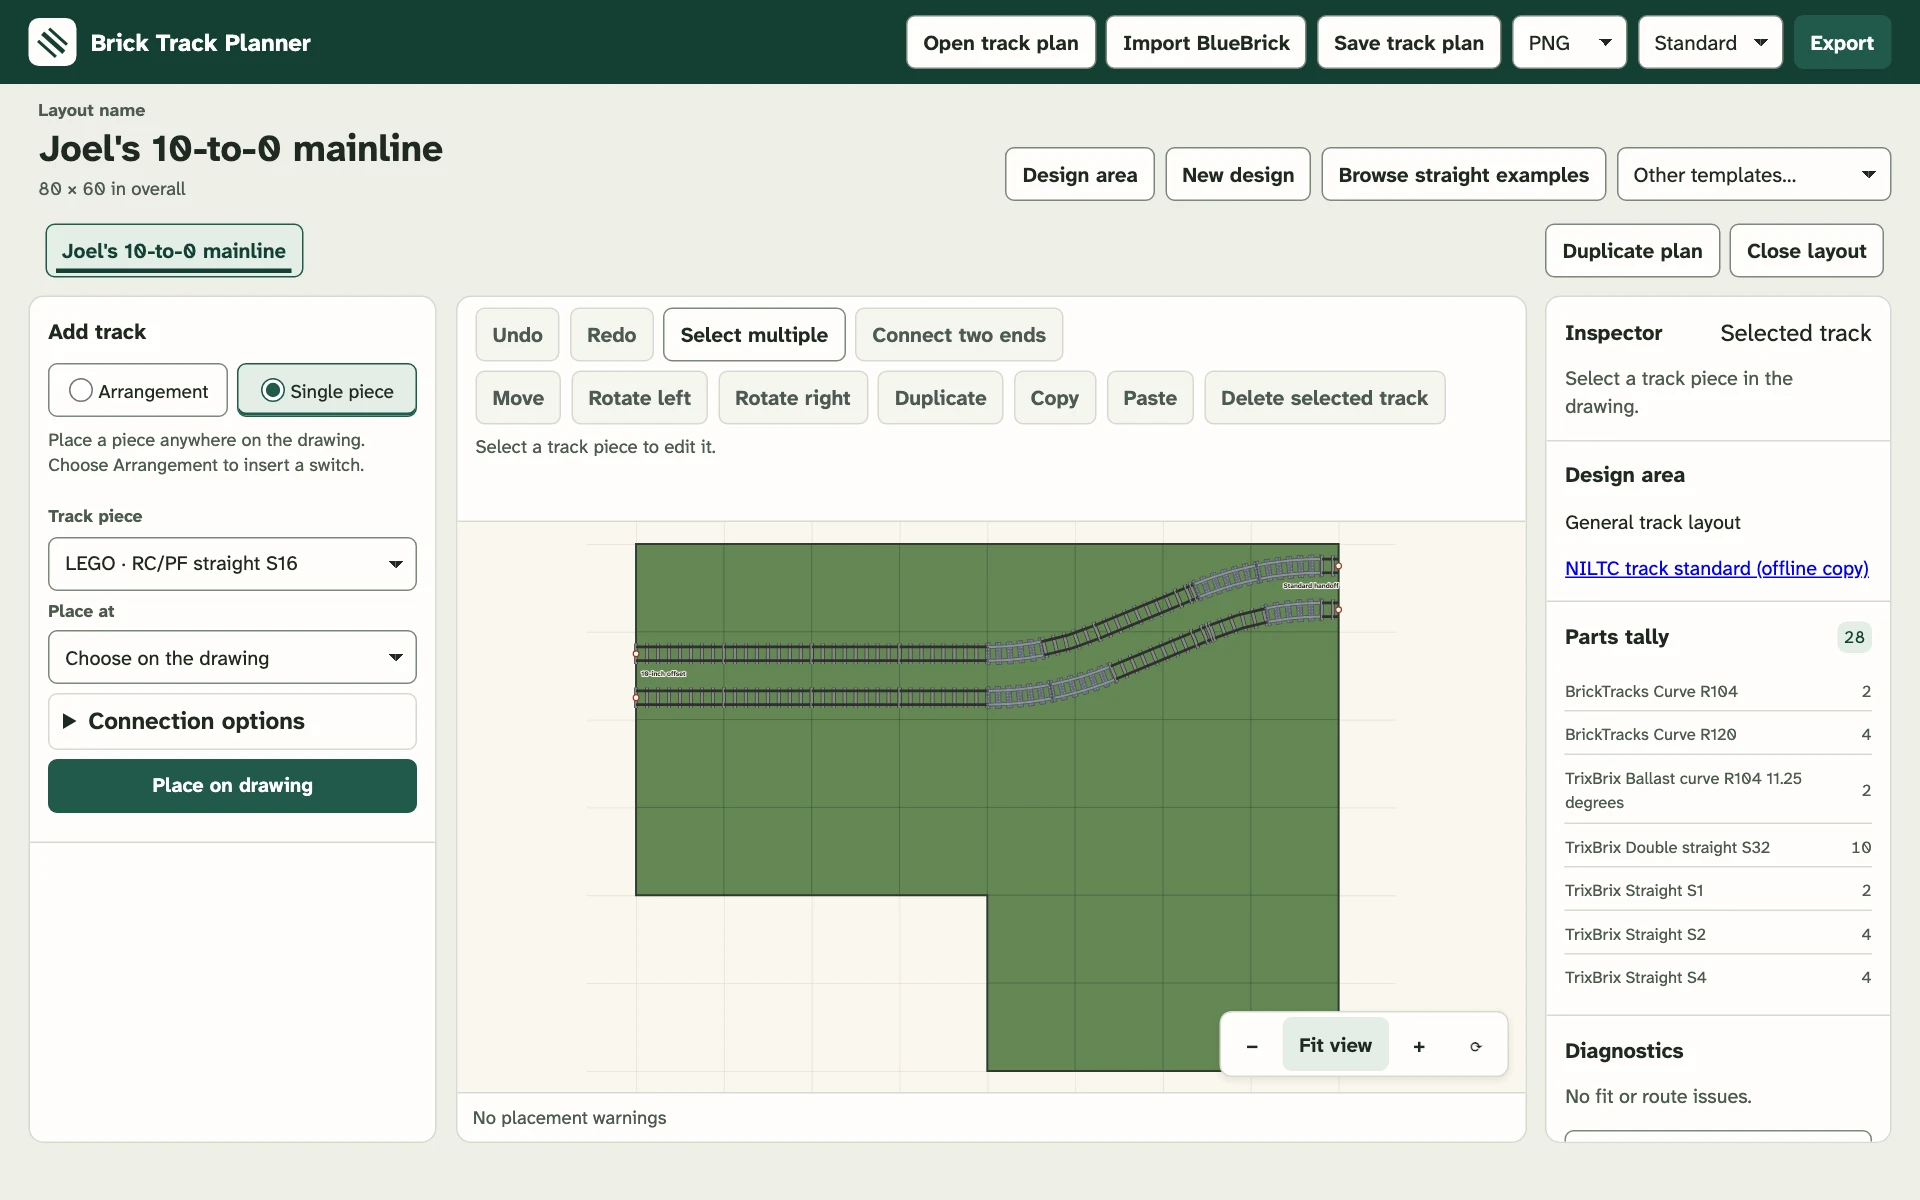
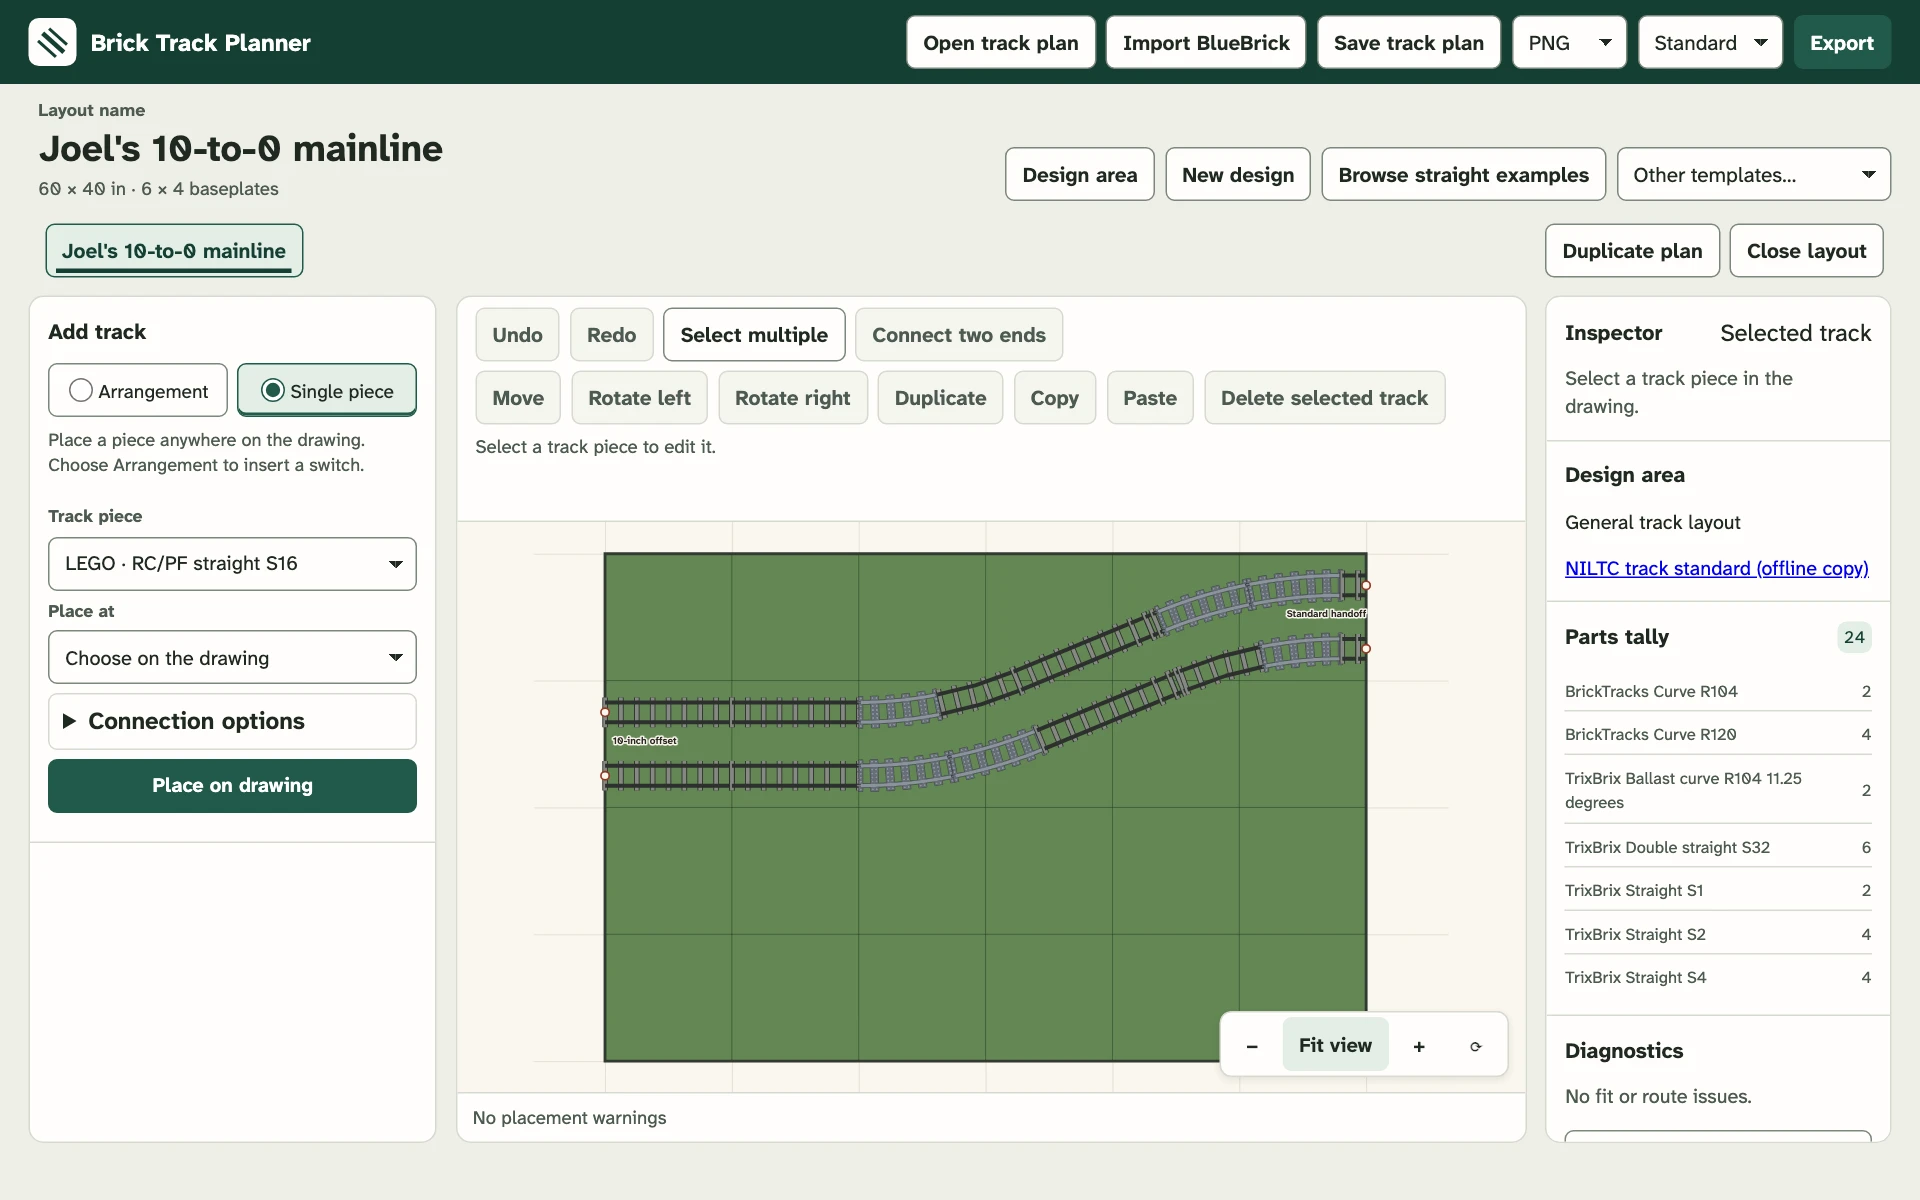
joel fix

Changed region(s): [[0.3125, 0.4317, 0.7188, 0.8942], [0.0625, 0.1542, 0.1562, 0.185]]

diff --git a/src/editor_files.ts b/src/editor_files.ts
@@ -46,7 +46,7 @@ const templates: readonly Template[] = [
   {
     file: "joel-mainline-offset.ldr",
     name: "Joel's 10-to-0 mainline",
-    purpose: "Two parallel mainlines shift 10 inches across the deeper half of a stepped display.",
+    purpose: "Two parallel mainlines shift 10 inches across a 60 by 40 inch display.",
   },
 ];
 

diff --git a/docs/SCREENSHOTS.md b/docs/SCREENSHOTS.md
@@ -253,13 +253,13 @@ You can also download the [R104 yard](../templates/member-yard.ldr),
 
 ### Joel's 10-to-0 mainline
 
-Based on the January 2024 Rockford show drawing, this [editable template](../templates/joel-mainline-offset.ldr)
-uses an 80 by 60 inch footprint with a shallower 40-inch-deep half. A pair of
-R104 and R120 S-bends shifts both mainlines 10 inches toward the front along
-the deeper half. Both tracks keep their 16-stud spacing at the handoffs.
+This [editable template](../templates/joel-mainline-offset.ldr) adapts the
+January 2024 Rockford mainline transition to a standard 60 by 40 inch table.
+R104 and R120 S-bends shift both mainlines 10 inches toward the front.
+The lanes are 16 studs apart at both handoffs.
 
 <!-- screenshots:begin (managed by screenshot-docs) -->
-![Two mainlines across a stepped display, with matching S-bends between the 10-inch offset and standard handoffs](screenshots/joel_mainline_offset.webp)
+![Two mainlines shifting 10 inches across a rectangular 60 by 40 inch table](screenshots/joel_mainline_offset.webp)
 <!-- screenshots:end -->
 
 ## Recapture the collection

diff --git a/docs/USAGE.md b/docs/USAGE.md
@@ -26,7 +26,7 @@ return, and the 120 by 90 inch R120 corner return with a 30 by 30 inch
 corner cutout. Each turnaround links the two approach tracks at the same edge.
 [See the turnarounds](SCREENSHOTS.md#r104-semicircle-return).
 Joel's 10-to-0 mainline shows how two tracks can shift 10 inches between
-handoffs on a stepped footprint. [See the mainline offset](SCREENSHOTS.md#joels-10-to-0-mainline).
+handoffs on a 60 by 40 inch table. [See the mainline offset](SCREENSHOTS.md#joels-10-to-0-mainline).
 
 The area is the member's usable display space. It is not a physical table map.
 The planner draws the 32-stud baseplate grid automatically, so members plan

diff --git a/docs/HUMAN_GUIDANCE.md b/docs/HUMAN_GUIDANCE.md
@@ -39,6 +39,7 @@ origin belongs there too. Rules: [REPO_STYLE.md](REPO_STYLE.md).
   can use them in another program. We only need to reopen our own track files.
 - Lead with 60 inches along the track and 40 inches of depth, the more common
   size. Also show a collection of 40 by 40 inch examples.
+- Use a standard 60 by 40 inch rectangle for Joel's 10-to-0 mainline example.
 - Give examples two-to-five-character alphanumeric codes based on their types.
   Keep layouts distinct, show a short perpendicular spur, and use the right
   edge for perpendicular tracks and the four-track right yard's storage.

diff --git a/docs/CHANGELOG.md b/docs/CHANGELOG.md
@@ -5,8 +5,8 @@
 ### Additions and New Features
 
 - Add Joel's Rockford-inspired 10-to-0 mainline as an editable template and
-  screenshot. Two parallel S-bends shift the track 10 inches on a stepped
-  80 by 60 inch footprint.
+  screenshot. Two S-bends shift the mainlines 10 inches on a standard 60 by 40
+  inch table.
 - Edit the design-area outline in place. Extend or trim full NILTC edges in
   10-inch steps, or shift a span in 5-inch steps so its two edges move together.
   Preview track overhang and handoff changes. Save the outline with the layout.
